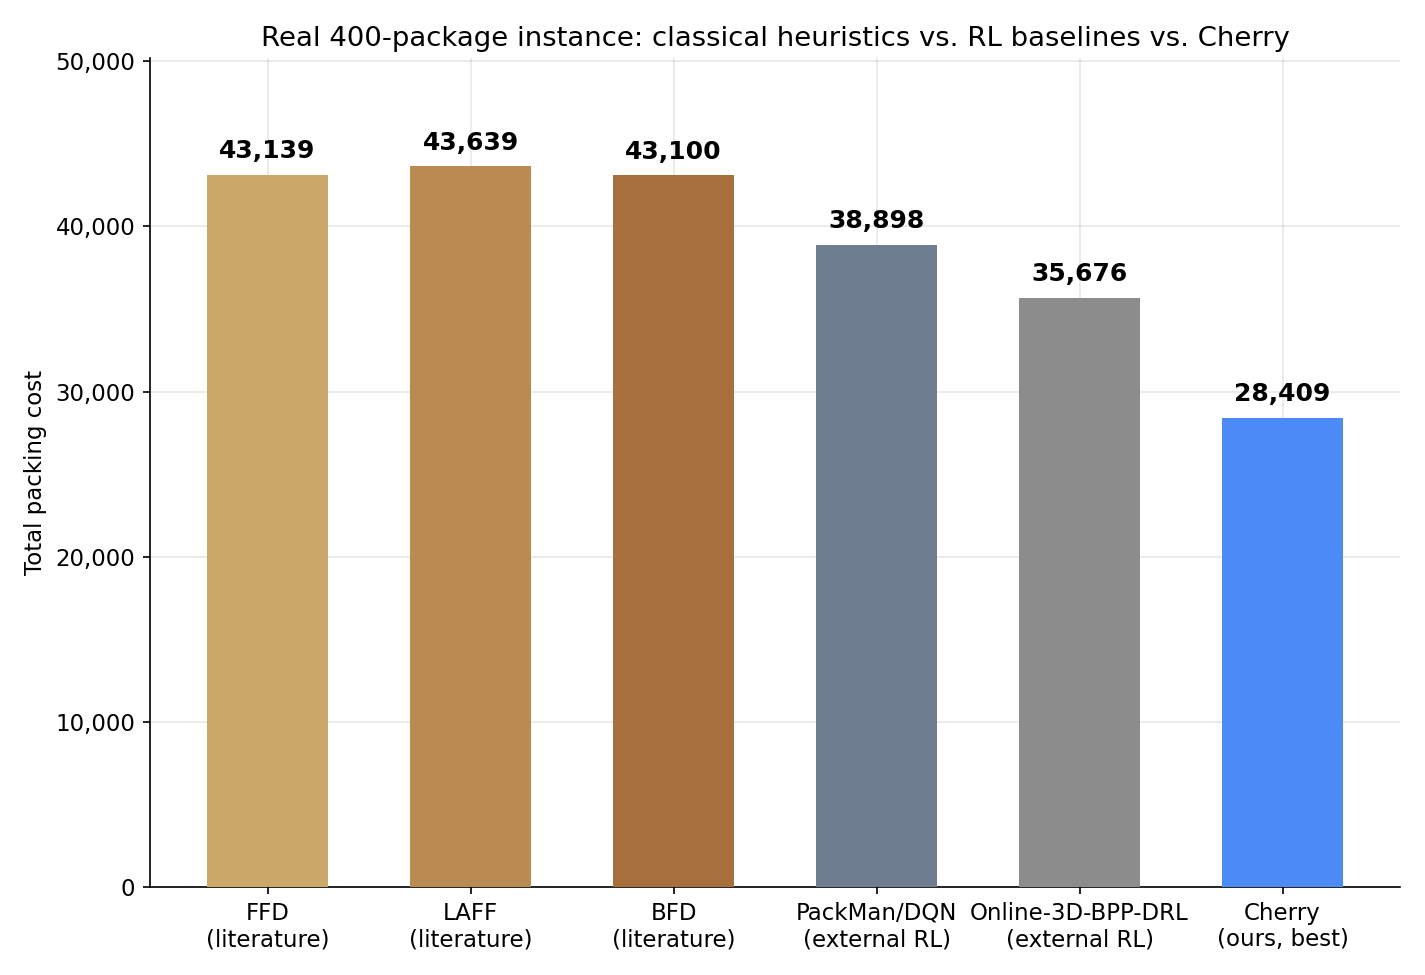
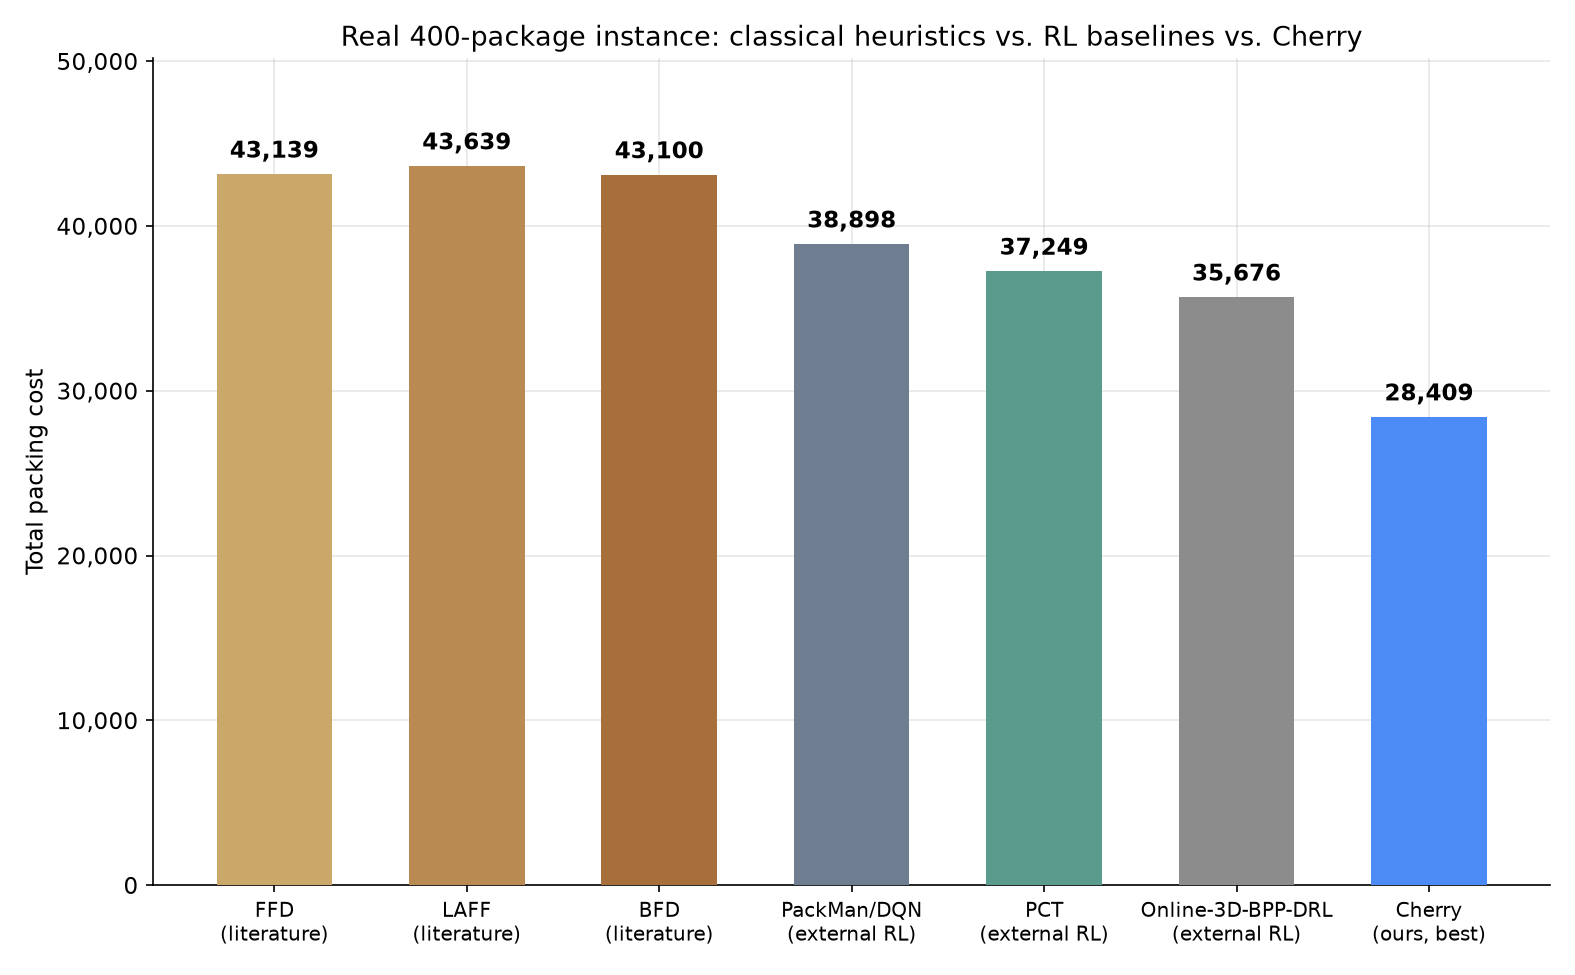
Add PCT as a third external RL baseline alongside PackMan/DQN
A teammate independently trained and evaluated PCT (Zhao, Yu & Xu, ICLR
2022, "Learning Efficient Online 3D Bin Packing on Packing Configuration
Trees") on the same real 400-package instance and 20-instance sweep used
throughout this project: 37,249 real-instance cost, 12,662 grand-average
-- the best-generalizing of the three external RL baselines despite not
leading on the single real instance.

Added to the same unified comparison as everything else here (table,
graphs, references) rather than split out separately, matching how
PackMan/DQN was already integrated.

diff --git a/04-benchmark/generate_comparison_graphs.py b/04-benchmark/generate_comparison_graphs.py
@@ -1,16 +1,16 @@
 """
 Comparison graphs: three independent classical heuristics from the
-literature review (FFD, LAFF, BFD) vs. two external RL baselines
-(PackMan/DQN, Online-3D-BPP-DRL) vs. our best result (Cherry). Eclipse and
-Halley are intentionally excluded -- this comparison is about
+literature review (FFD, LAFF, BFD) vs. three external RL baselines
+(PackMan/DQN, PCT, Online-3D-BPP-DRL) vs. our best result (Cherry). Eclipse
+and Halley are intentionally excluded -- this comparison is about
 classical-heuristic vs. external-RL vs. our-best, not a rehash of the
 internal 3-model comparison.
 
 Two charts, matching this project's established visual style (matplotlib,
 white background, bold value labels, recessive gridlines):
-  1. Real 400-package instance cost (all 6 methods).
+  1. Real 400-package instance cost (all 7 methods).
   2. Grand-average cost across the same 20 held-out synthetic instances
-     (all 6 methods).
+     (all 7 methods).
 """
 import json
 import os
@@ -29,48 +29,51 @@ plt.rcParams.update({'figure.facecolor': 'white', 'axes.facecolor': 'white',
 with open(os.path.join(HERE, 'results', 'summary.json')) as f:
     summary = json.load(f)
 
-# Real-instance chart: 6 methods (classical x3, RL baselines x2, ours).
+# Real-instance chart: 7 methods (classical x3, RL baselines x3, ours).
 REAL_LABELS = ['FFD\n(literature)', 'LAFF\n(literature)', 'BFD\n(literature)',
-               'PackMan/DQN\n(external RL)', 'Online-3D-BPP-DRL\n(external RL)',
-               'Cherry\n(ours, best)']
-REAL_COLORS = ['#c9a86a', '#b98b52', '#a66f3b', '#6f7d91', '#8C8C8C', '#4c8bf5']
+               'PackMan/DQN\n(external RL)', 'PCT\n(external RL)',
+               'Online-3D-BPP-DRL\n(external RL)', 'Cherry\n(ours, best)']
+REAL_COLORS = ['#c9a86a', '#b98b52', '#a66f3b', '#6f7d91', '#5a9b8e', '#8C8C8C', '#4c8bf5']
 real_costs = [
     summary['ffd']['real_instance']['total_cost'],
     summary['laff']['real_instance']['total_cost'],
     summary['bfd']['real_instance']['total_cost'],
     38898,   # PackMan/DQN (Verma et al. 2020), trained and evaluated independently by a teammate
+    37249,   # PCT (Zhao, Yu & Xu, ICLR 2022), trained and evaluated independently by a teammate
     35676,   # Online-3D-BPP-DRL, ~/Desktop/online-3d-bpp-benchmark/benchmark_result.json
     28409,   # Cherry, final result after centrifuge-evict refinement
 ]
 
-# Grand-average chart: all 6 methods.
+# Grand-average chart: all 7 methods.
 GRAND_LABELS = ['FFD\n(literature)', 'LAFF\n(literature)', 'BFD\n(literature)',
-                'PackMan/DQN\n(external RL)', 'Online-3D-BPP-DRL\n(external RL)',
-                'Cherry\n(ours, best)']
-GRAND_COLORS = ['#c9a86a', '#b98b52', '#a66f3b', '#6f7d91', '#8C8C8C', '#4c8bf5']
+                'PackMan/DQN\n(external RL)', 'PCT\n(external RL)',
+                'Online-3D-BPP-DRL\n(external RL)', 'Cherry\n(ours, best)']
+GRAND_COLORS = ['#c9a86a', '#b98b52', '#a66f3b', '#6f7d91', '#5a9b8e', '#8C8C8C', '#4c8bf5']
 grand_avgs = [
     summary['ffd']['sweep_20_instance']['grand_avg'],
     summary['laff']['sweep_20_instance']['grand_avg'],
     summary['bfd']['sweep_20_instance']['grand_avg'],
     15860,     # PackMan/DQN (Verma et al. 2020), 20-instance sweep, run independently by a teammate
+    12662,     # PCT (Zhao, Yu & Xu, ICLR 2022), 20-instance sweep, run independently by a teammate
     15535.15,  # Online-3D-BPP-DRL, ~/Desktop/online-3d-bpp-benchmark/online_bpp_20instance_results.json
     9498.8,    # Cherry, cargoism/git/01-cherry/results/three_model_k_sweep.json
 ]
 
 
 def bar_chart(labels, colors, values, title, ylabel, out_name):
-    fig, ax = plt.subplots(figsize=(9.5, 6.5))
+    fig, ax = plt.subplots(figsize=(10.5, 6.5))
     bars = ax.bar(labels, values, color=colors, width=0.6, zorder=3)
     for bar, v in zip(bars, values):
         ax.annotate(f'{v:,.0f}', (bar.get_x() + bar.get_width() / 2, v),
                     textcoords='offset points', xytext=(0, 8), ha='center',
-                    fontsize=12, fontweight='bold')
+                    fontsize=11, fontweight='bold')
     ax.set_ylabel(ylabel)
     ax.set_title(title)
     ax.yaxis.set_major_formatter(mticker.StrMethodFormatter('{x:,.0f}'))
     ax.set_ylim(0, max(values) * 1.15)
     for spine in ('top', 'right'):
         ax.spines[spine].set_visible(False)
+    plt.xticks(fontsize=9.5)
     fig.tight_layout()
     fig.savefig(os.path.join(HERE, 'graphs', out_name), dpi=150)
     plt.close(fig)
@@ -82,7 +85,7 @@ bar_chart(REAL_LABELS, REAL_COLORS, real_costs,
           'Total packing cost', '01_real_instance_comparison.png')
 
 bar_chart(GRAND_LABELS, GRAND_COLORS, grand_avgs,
-          'Grand-average cost across 20 held-out synthetic instances\n(same instances, same K sweep, for all 6 methods)',
+          'Grand-average cost across 20 held-out synthetic instances\n(same instances, same K sweep, for all 7 methods)',
           'Average total packing cost\n(mean of the 5 per-K averages)', '02_grand_average_comparison.png')
 
 # Individual per-model versions (grand-average only), swapping Cherry's slot

diff --git a/04-benchmark/README.md b/04-benchmark/README.md
@@ -1,10 +1,10 @@
 # Classical heuristic baselines — literature review, benchmarked independently
 
 Three classical heuristics standard in the 3D bin-packing literature,
-implemented independently and benchmarked against our own pipeline and two
-external RL baselines: *Online-3D-BPP-DRL* (Zhao et al., AAAI 2021) and
-*PackMan/DQN* (Verma et al. 2020), the latter trained and evaluated
-independently by a teammate.
+implemented independently and benchmarked against our own pipeline and
+three external RL baselines: *Online-3D-BPP-DRL* (Zhao et al., AAAI 2021),
+*PackMan/DQN* (Verma et al., 2020), and *PCT* (Zhao, Yu & Xu, ICLR 2022) --
+the latter two trained and evaluated independently by a teammate.
 
 - **FFD** (First-Fit Decreasing) — sort by decreasing *volume*, place in
   the first ULD (in given order) where it geometrically fits. "Traditional
@@ -56,21 +56,32 @@ heuristics vs. external RL vs. our best result.
 | LAFF (literature) | 43,639 | 17,699 |
 | BFD (literature) | 43,100 | 18,844 |
 | PackMan/DQN (Verma et al. 2020, external RL) | 38,898 | 15,860 |
+| PCT (Zhao, Yu & Xu, ICLR 2022, external RL) | 37,249 | 12,662 |
 | Online-3D-BPP-DRL (Zhao et al. 2021, external RL) | 35,676 | 15,535 |
 | **Cherry (ours, best)** | **28,409** | **9,499** |
 
-PackMan/DQN was trained and evaluated independently by a teammate, on
-both the real 400-package instance and the same 20-instance grand-average
-sweep used throughout this project.
+PackMan/DQN and PCT were each trained and evaluated independently by a
+teammate, on both the real 400-package instance and the same 20-instance
+grand-average sweep used throughout this project. All reported placements
+for both went through the same independent validity check used everywhere
+else in this project (zero pairwise 3D overlap, per-ULD weight/volume
+capacity respected, full Priority-package placement verified separately
+from the code that produced the placement).
 
 All three classical heuristics land in the same tight band (~17,700–18,850
 grand average) — a good illustration that "which classical heuristic" is a
 second-order choice compared to *whether the algorithm reasons about
 spread cost at all*. None of FFD/LAFF/BFD do; they're all worse than even
-both external RL baselines, neither of which optimizes for Priority
-clustering either. On the real instance all three used **4** Priority
-ULDs (vs. our 3), because none of them consider how many ULDs end up
-touched — just "does it fit here right now."
+all three external RL baselines, none of which optimizes for Priority
+clustering either. Of the three external RL baselines, PCT generalizes
+best (12,662 grand-average, clearly ahead of PackMan/DQN's 15,860 and
+Online-3D-BPP-DRL's 15,535) despite landing in the middle of the pack on
+the single real instance (37,249) -- another instance of the generalization
+caveat this project keeps running into: a single real-instance comparison
+alone is not a reliable predictor of grand-average ranking. On the real
+instance all three classical heuristics used **4** Priority ULDs (vs. our
+3), because none of them consider how many ULDs end up touched — just
+"does it fit here right now."
 
 Interestingly, LAFF (sort by face area) edges out FFD and BFD on the
 20-instance grand average despite BFD winning narrowly on the single real
@@ -114,3 +125,6 @@ Run with `python3 run_benchmarks.py` then `python3 generate_comparison_graphs.py
 - H. Zhao, Q. She, C. Zhu, Y. Yang, and K. Xu, "Online 3D Bin Packing with
   Constrained Deep Reinforcement Learning," in *Proc. AAAI Conference on
   Artificial Intelligence*, 2021. (Online-3D-BPP-DRL baseline above.)
+- H. Zhao, Y. Yu, and K. Xu, "Learning Efficient Online 3D Bin Packing on
+  Packing Configuration Trees," in *Proc. International Conference on
+  Learning Representations (ICLR)*, 2022. (PCT baseline above.)
